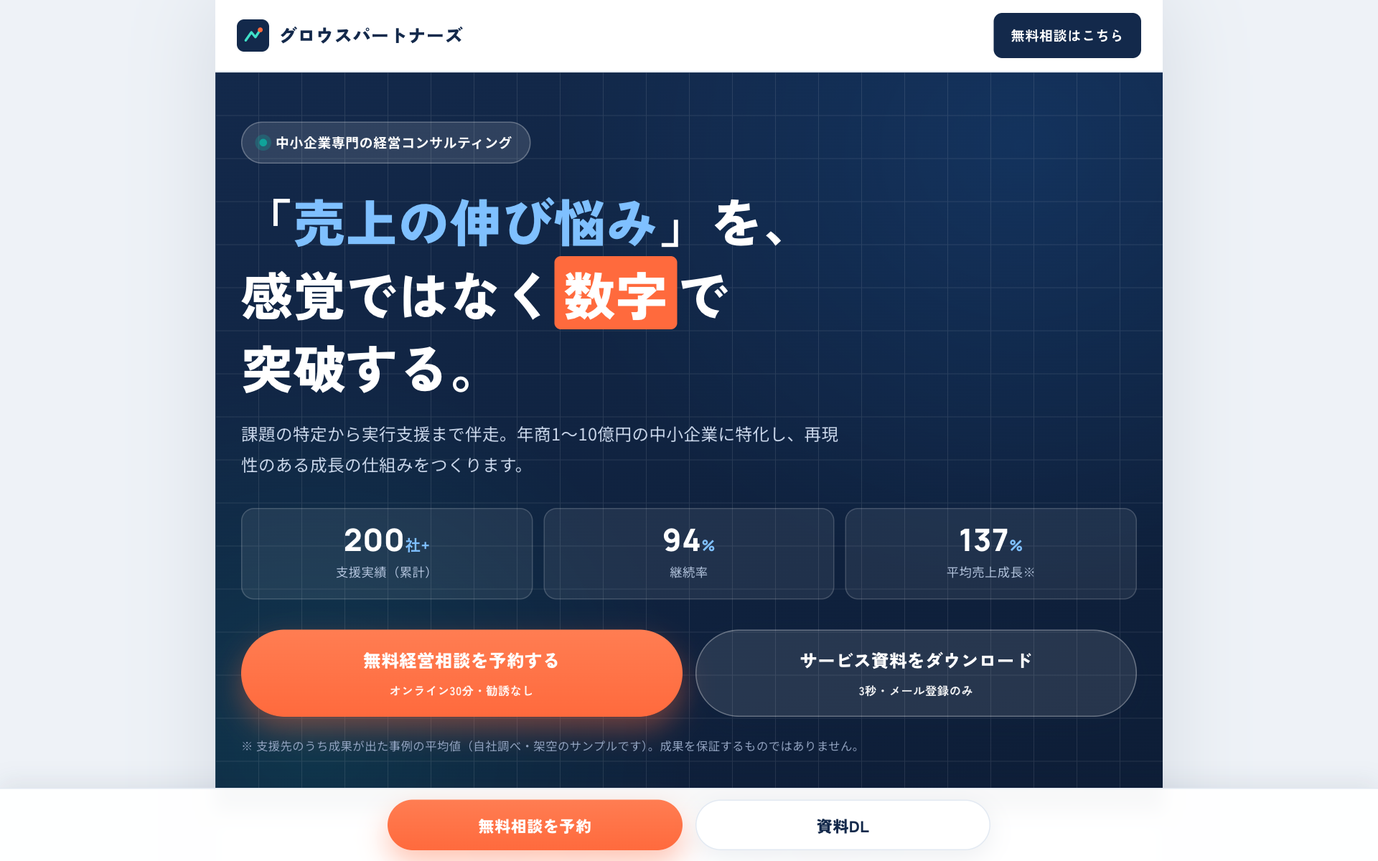
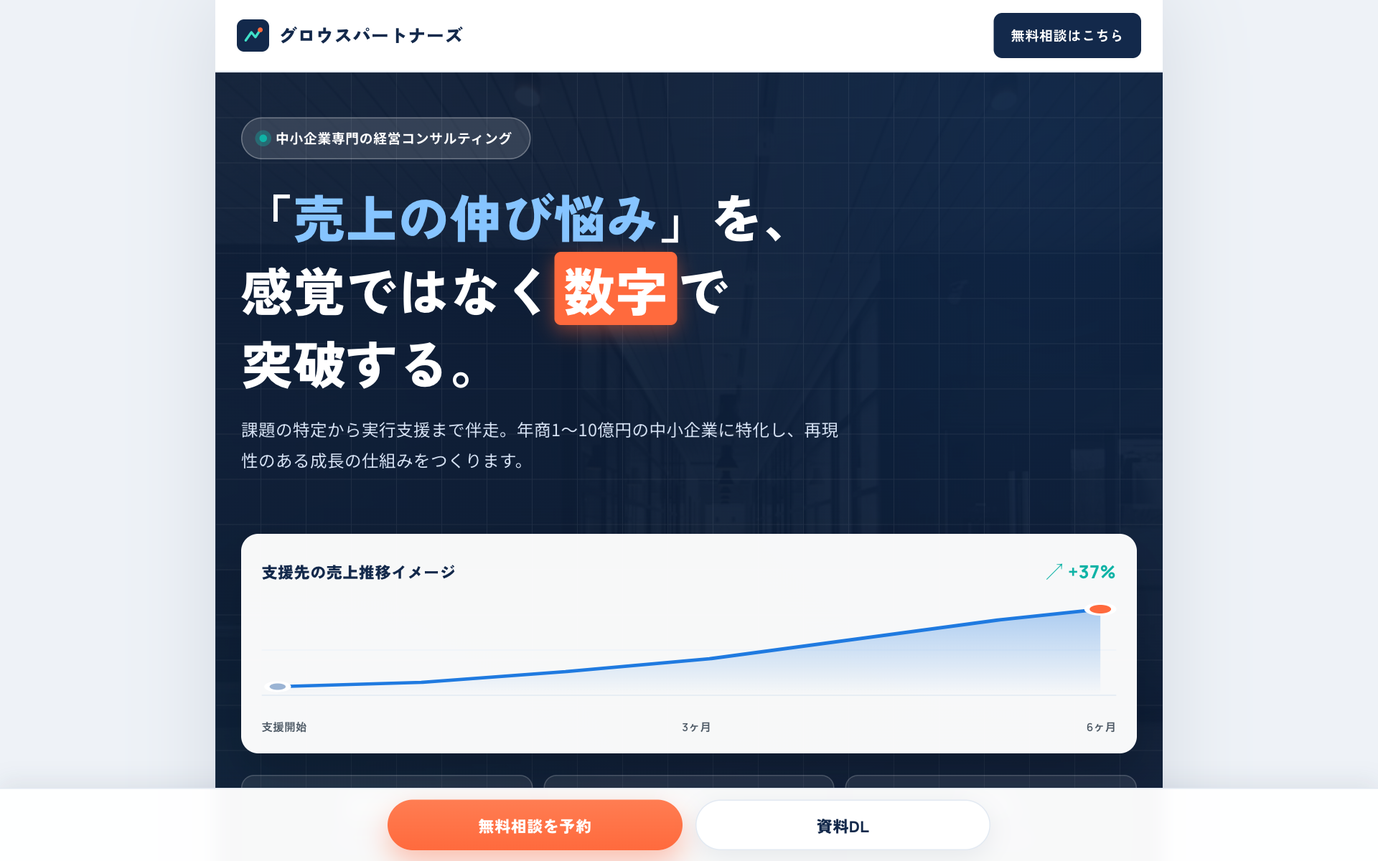
コンサルLP改善: 可読性とビジュアルの面白み強化
ユーザーフィードバック「見にくい/面白みがない」に対応。
- 可読性: 本文/リード文の文字色を濃く・太く、濃紺セクションのカードを
  高コントラスト化(事例カードの背景不透明度・文字色を引き上げ)
- ビジュアル: 写真ゼロの単調さを解消。ヒーローにオフィス背景＋成長グラフ
  カード(右肩上がりSVG)を追加し「数字で突破」を可視化
- 新セクション「Our Approach」=データ分析写真バンド＋現場伴走の訴求で
  ライト/ダークのリズムを作る。最終CTAにもオフィス背景を追加
- トップ用サムネも更新。全画像ロード・横はみ出しゼロ確認

Changed region(s): [[0.1562, 0.5858, 0.8438, 0.8942], [0.1562, 0.1233, 0.5625, 0.4625], [0.1562, 0.4933, 0.625, 0.555]]

diff --git a/consulting-lp/index.html b/consulting-lp/index.html
@@ -8,7 +8,7 @@
 <!--
   ポートフォリオ用サンプルLP / 架空の経営コンサル「株式会社グロウスパートナーズ」（BtoBリード獲得型）
   想定案件: ランサーズ「コンサルティング会社のLP制作（デザイン・キャッチコピー・構成）」を想定
-  トンマナ: 信頼・知的・コーポレート（濃紺＋アクセント）。人物顔写真は最小化しオフィス/抽象＋CSS/SVGで構成。
+  トンマナ: 信頼・知的・コーポレート（濃紺＋アクセント）。人物の顔は写さず、オフィス/データ系のUnsplash写真＋成長グラフ等のSVGで視覚に変化を出す。
   会社名・実績数値・事例・お客様の声はすべて架空のダミー。制作: (実名)
 -->
 <link rel="preconnect" href="https://fonts.googleapis.com">
@@ -16,9 +16,9 @@
 <link href="https://fonts.googleapis.com/css2?family=Noto+Sans+JP:wght@400;500;700;900&family=Zen+Kaku+Gothic+New:wght@500;700;900&family=Manrope:wght@500;600;700;800&display=swap" rel="stylesheet">
 <style>
   :root{
-    --navy:#13294b; --navy-d:#0d1d36; --navy-l:#27406a; --ink:#26313f; --ink-soft:#5e6b7a;
+    --navy:#13294b; --navy-d:#0d1d36; --navy-l:#27406a; --ink:#1f2935; --ink-soft:#4d5965;
     --bg:#ffffff; --mist:#f4f7fb; --mist2:#e9f0f8; --line:#e2e9f2;
-    --accent:#1f7ae0; --accent-d:#1660b8; --teal:#10a39a;
+    --accent:#1f7ae0; --accent-d:#1660b8; --teal:#0fb3a6;
     --cta:#ff6a3d; --cta-d:#ef5526; --gold:#c9a24b;
     --radius:14px; --shadow-sm:0 6px 22px rgba(19,41,75,.08);
     --shadow:0 22px 54px rgba(19,41,75,.16); --maxw:880px;
@@ -27,26 +27,24 @@
   *{box-sizing:border-box; margin:0; padding:0}
   html{scroll-behavior:smooth; -webkit-text-size-adjust:100%}
   body{font-family:"Noto Sans JP",system-ui,sans-serif; color:var(--ink); background:#eef2f7;
-    line-height:1.85; -webkit-font-smoothing:antialiased; letter-spacing:.02em; overflow-x:hidden}
+    line-height:1.85; -webkit-font-smoothing:antialiased; letter-spacing:.02em; overflow-x:hidden; padding-bottom:84px}
   img{max-width:100%; display:block}
   a{color:inherit; text-decoration:none}
   .lp{max-width:var(--maxw); margin:0 auto; background:var(--bg); box-shadow:0 0 80px rgba(19,41,75,.12); overflow:hidden}
   .pad{padding-left:24px; padding-right:24px}
   .center{text-align:center}
-  .accent{color:var(--accent)} .navyc{color:var(--navy)}
+  .accent{color:var(--accent)}
   .reveal{opacity:0; transform:translateY(20px); transition:opacity .7s cubic-bezier(.2,.7,.3,1), transform .7s}
   .reveal.in{opacity:1; transform:none}
   .d1{transition-delay:.08s}.d2{transition-delay:.16s}.d3{transition-delay:.24s}
 
-  /* 見出し体系 */
   .eyebrow{font-family:var(--en); font-weight:700; color:var(--accent); font-size:.8rem; letter-spacing:.18em; text-transform:uppercase; display:block}
   .h2{font-family:var(--sans); font-weight:900; color:var(--navy); font-size:clamp(1.5rem,5.2vw,2.1rem); line-height:1.4; margin-top:6px}
   .h2 .u{background:linear-gradient(transparent 62%,#cfe3fb 62%)}
-  .lead{color:var(--ink-soft); margin-top:12px; font-size:.95rem}
-  .sec{padding:64px 0; position:relative}
+  .lead{color:var(--ink-soft); margin-top:12px; font-size:.96rem; font-weight:500}
+  .sec{padding:60px 0; position:relative}
   .headwrap{text-align:center; max-width:640px; margin:0 auto}
 
-  /* CTAボタン */
   .btn{display:inline-flex; align-items:center; justify-content:center; gap:8px; font-family:var(--sans); font-weight:900;
     border-radius:999px; padding:17px 32px; font-size:1.02rem; transition:.22s; border:none; cursor:pointer; line-height:1.3; text-align:center}
   .btn.cta{background:linear-gradient(180deg,#ff7d52,var(--cta)); color:#fff; box-shadow:0 12px 26px rgba(255,106,61,.4)}
@@ -67,37 +65,49 @@
   @media(max-width:560px){header .hbtn{display:none}}
 
   /* ヒーロー */
-  .hero{position:relative; background:linear-gradient(160deg,var(--navy),var(--navy-d)); color:#fff; overflow:hidden}
-  .hero::before{content:""; position:absolute; inset:0; opacity:.16;
-    background:radial-gradient(50% 60% at 85% 10%,#1f7ae0,transparent),radial-gradient(40% 50% at 10% 90%,#10a39a,transparent)}
-  .hero .grid-bg{position:absolute; inset:0; opacity:.10;
-    background-image:linear-gradient(#fff 1px,transparent 1px),linear-gradient(90deg,#fff 1px,transparent 1px); background-size:40px 40px}
-  .hero .inner{position:relative; z-index:2; padding:46px 24px 52px}
-  .hero .tagline{display:inline-flex; align-items:center; gap:8px; background:rgba(255,255,255,.12); border:1px solid rgba(255,255,255,.25);
+  .hero{position:relative; background:var(--navy-d); color:#fff; overflow:hidden}
+  .hero .bgimg{position:absolute; inset:0; z-index:0}
+  .hero .bgimg img{width:100%; height:100%; object-fit:cover; opacity:.34}
+  .hero::before{content:""; position:absolute; inset:0; z-index:1;
+    background:linear-gradient(165deg,rgba(13,29,54,.78),rgba(13,29,54,.92)),radial-gradient(50% 60% at 88% 8%,rgba(31,122,224,.5),transparent),radial-gradient(45% 50% at 6% 95%,rgba(15,179,166,.4),transparent)}
+  .hero .grid-bg{position:absolute; inset:0; z-index:1; opacity:.07;
+    background-image:linear-gradient(#fff 1px,transparent 1px),linear-gradient(90deg,#fff 1px,transparent 1px); background-size:42px 42px}
+  .hero .inner{position:relative; z-index:2; padding:42px 24px 30px}
+  .hero .tagline{display:inline-flex; align-items:center; gap:8px; background:rgba(255,255,255,.13); border:1px solid rgba(255,255,255,.28);
     border-radius:999px; padding:7px 16px; font-size:.78rem; font-weight:700; letter-spacing:.04em}
-  .hero .tagline .dot{width:7px; height:7px; border-radius:50%; background:var(--teal); box-shadow:0 0 0 4px rgba(16,163,154,.3)}
-  .hero h1{font-family:var(--sans); font-weight:900; font-size:clamp(1.9rem,7.2vw,3rem); line-height:1.42; margin:18px 0 14px; letter-spacing:.01em}
-  .hero h1 .hl{color:#7fc0ff}
-  .hero h1 .box{background:var(--cta); color:#fff; padding:0 .18em; border-radius:6px; display:inline-block}
-  .hero p.sub{font-size:.98rem; color:#c7d4e8; max-width:560px}
-  .hero .kpis{display:flex; gap:10px; margin:26px 0 28px; flex-wrap:wrap}
-  .hero .kpi{flex:1 1 130px; background:rgba(255,255,255,.07); border:1px solid rgba(255,255,255,.16); border-radius:12px; padding:14px 12px; text-align:center}
-  .hero .kpi .n{font-family:var(--en); font-weight:800; font-size:1.8rem; color:#fff; line-height:1}
-  .hero .kpi .n .s{font-size:.9rem; color:#7fc0ff} .hero .kpi .l{font-size:.72rem; color:#aebfd8; margin-top:5px}
-  .hero .note{font-size:.68rem; color:#8fa0bd; margin-top:16px}
+  .hero .tagline .dot{width:7px; height:7px; border-radius:50%; background:var(--teal); box-shadow:0 0 0 4px rgba(15,179,166,.35)}
+  .hero h1{font-family:var(--sans); font-weight:900; font-size:clamp(1.95rem,7.4vw,3rem); line-height:1.42; margin:18px 0 14px; letter-spacing:.01em}
+  .hero h1 .hl{color:#86c4ff}
+  .hero h1 .box{background:var(--cta); color:#fff; padding:0 .18em; border-radius:6px; display:inline-block; box-shadow:0 6px 18px rgba(255,106,61,.45)}
+  .hero p.sub{font-size:.98rem; color:#d4e0f2; max-width:560px}
 
-  /* 信頼バー（ロゴ） */
+  /* ヒーロー成長グラフカード */
+  .growthcard{position:relative; z-index:2; margin:24px 24px -34px; background:rgba(255,255,255,.97); border-radius:16px; padding:18px 18px 14px;
+    box-shadow:0 24px 50px rgba(8,18,34,.5); border:1px solid rgba(255,255,255,.5)}
+  .growthcard .gh{display:flex; align-items:center; justify-content:space-between; margin-bottom:8px}
+  .growthcard .gh .t{font-family:var(--sans); font-weight:900; color:var(--navy); font-size:.92rem}
+  .growthcard .gh .up{font-family:var(--en); font-weight:800; color:var(--teal); font-size:1.05rem}
+  .growthcard svg{width:100%; height:110px; display:block}
+  .growthcard .xlab{display:flex; justify-content:space-between; font-size:.64rem; color:var(--ink-soft); margin-top:2px; font-family:var(--en); font-weight:600}
+
+  .hero .kpis{display:flex; gap:10px; margin:54px 0 24px; flex-wrap:wrap}
+  .hero .kpi{flex:1 1 130px; background:rgba(255,255,255,.08); border:1px solid rgba(255,255,255,.18); border-radius:12px; padding:14px 12px; text-align:center}
+  .hero .kpi .n{font-family:var(--en); font-weight:800; font-size:1.8rem; color:#fff; line-height:1}
+  .hero .kpi .n .s{font-size:.9rem; color:#86c4ff} .hero .kpi .l{font-size:.72rem; color:#b9c8de; margin-top:5px}
+  .hero .note{font-size:.68rem; color:#8fa0bd; margin-top:14px}
+
+  /* 信頼バー */
   .trust{background:var(--mist); border-bottom:1px solid var(--line); padding:22px 0}
   .trust p{text-align:center; font-size:.74rem; color:var(--ink-soft); letter-spacing:.06em; margin-bottom:14px}
   .logos{display:flex; flex-wrap:wrap; justify-content:center; gap:10px 14px; padding:0 16px}
   .logos .lg{height:34px; padding:0 16px; display:flex; align-items:center; justify-content:center; background:#fff; border:1px solid var(--line);
-    border-radius:8px; font-family:var(--en); font-weight:700; color:#9aa8ba; font-size:.82rem; letter-spacing:.04em}
+    border-radius:8px; font-family:var(--en); font-weight:700; color:#8694a8; font-size:.82rem; letter-spacing:.04em}
 
   /* 共感 */
   .worry{background:#fff}
   .worry .cards{display:grid; grid-template-columns:1fr 1fr; gap:14px; margin-top:30px}
   .wcard{background:var(--mist); border:1px solid var(--line); border-radius:14px; padding:20px 18px; position:relative}
-  .wcard .q{font-family:var(--en); font-weight:800; color:#c5d2e3; font-size:1.4rem; line-height:1}
+  .wcard .q{font-family:var(--en); font-weight:800; color:#b3c4da; font-size:1.4rem; line-height:1}
   .wcard p{font-size:.92rem; font-weight:700; color:var(--navy); margin-top:8px}
   .worry .bridge{text-align:center; margin-top:30px; font-family:var(--sans); font-weight:900; color:var(--navy); font-size:clamp(1.15rem,4.6vw,1.5rem); line-height:1.6}
   .worry .bridge .accent{color:var(--accent)}
@@ -106,39 +116,55 @@
   .svc{background:var(--mist)}
   .svc .grid{display:grid; gap:16px; margin-top:32px}
   .scard{background:#fff; border:1px solid var(--line); border-radius:16px; padding:24px 22px; box-shadow:var(--shadow-sm); display:flex; gap:18px; align-items:flex-start}
-  .scard .ic{width:52px; height:52px; flex:none; border-radius:12px; background:linear-gradient(160deg,var(--accent),var(--accent-d)); display:grid; place-items:center}
-  .scard .ic svg{width:28px; height:28px; stroke:#fff; fill:none; stroke-width:1.8}
+  .scard .ic{width:52px; height:52px; flex:none; border-radius:12px; background:linear-gradient(160deg,var(--accent),var(--accent-d)); display:grid; place-items:center; box-shadow:0 8px 18px rgba(31,122,224,.35)}
+  .scard .ic svg{width:28px; height:28px; stroke:#fff; fill:none; stroke-width:1.9}
   .scard .no{font-family:var(--en); font-weight:700; color:var(--accent); font-size:.78rem; letter-spacing:.1em}
   .scard h3{font-family:var(--sans); font-weight:900; color:var(--navy); font-size:1.15rem; margin:2px 0 7px}
-  .scard p{font-size:.9rem; color:var(--ink-soft)}
+  .scard p{font-size:.9rem; color:var(--ink-soft); font-weight:500}
+
+  /* アプローチ（写真バンド） */
+  .approach{position:relative; color:#fff; overflow:hidden}
+  .approach .bgimg{position:absolute; inset:0; z-index:0}
+  .approach .bgimg img{width:100%; height:100%; object-fit:cover}
+  .approach::after{content:""; position:absolute; inset:0; z-index:1; background:linear-gradient(120deg,rgba(13,29,54,.94),rgba(19,41,75,.82))}
+  .approach .inner{position:relative; z-index:2; padding:56px 24px}
+  .approach .eyebrow{color:#86c4ff}
+  .approach h2{font-family:var(--sans); font-weight:900; font-size:clamp(1.4rem,5vw,1.9rem); line-height:1.5; margin:6px 0 14px}
+  .approach h2 .hl{color:#3fe0c8}
+  .approach p{color:#cdd9ec; font-size:.95rem; max-width:560px}
+  .approach .pts{display:grid; gap:10px; margin-top:22px}
+  .approach .pt{display:flex; gap:12px; align-items:flex-start; background:rgba(255,255,255,.07); border:1px solid rgba(255,255,255,.16); border-radius:12px; padding:14px 16px}
+  .approach .pt .ck{flex:none; width:24px; height:24px; border-radius:50%; background:var(--teal); display:grid; place-items:center; margin-top:1px}
+  .approach .pt .ck svg{width:13px; height:13px; stroke:#fff; stroke-width:2.6; fill:none}
+  .approach .pt b{display:block; font-size:.95rem; color:#fff} .approach .pt span{font-size:.82rem; color:#bccadf}
 
   /* 選ばれる理由 */
   .why .item{display:flex; gap:18px; align-items:flex-start; padding:22px 0; border-bottom:1px dashed var(--line)}
   .why .item:last-child{border-bottom:none}
-  .why .num{font-family:var(--en); font-weight:800; font-size:2rem; color:#cfe0f4; flex:none; line-height:1; width:58px}
+  .why .num{font-family:var(--en); font-weight:800; font-size:2rem; color:var(--accent); opacity:.45; flex:none; line-height:1; width:58px}
   .why h3{font-family:var(--sans); font-weight:900; color:var(--navy); font-size:1.12rem; margin-bottom:6px}
-  .why p{font-size:.9rem; color:var(--ink-soft)}
+  .why p{font-size:.9rem; color:var(--ink-soft); font-weight:500}
 
   /* 実績/事例 Before-After */
   .case{background:var(--navy); color:#fff}
-  .case .h2{color:#fff} .case .eyebrow{color:#7fc0ff}
+  .case .h2{color:#fff} .case .eyebrow{color:#86c4ff}
   .case .grid{display:grid; gap:16px; margin-top:32px}
-  .ccard{background:rgba(255,255,255,.05); border:1px solid rgba(255,255,255,.14); border-radius:16px; padding:22px}
-  .ccard .tag{display:inline-block; background:rgba(127,192,255,.16); color:#9fccff; font-size:.72rem; font-weight:700; padding:4px 12px; border-radius:999px}
-  .ccard h3{font-family:var(--sans); font-weight:700; font-size:1rem; margin:12px 0 16px; color:#eaf1fb}
+  .ccard{background:rgba(255,255,255,.09); border:1px solid rgba(255,255,255,.2); border-radius:16px; padding:22px}
+  .ccard .tag{display:inline-block; background:rgba(134,196,255,.2); color:#aed5ff; font-size:.72rem; font-weight:700; padding:4px 12px; border-radius:999px}
+  .ccard h3{font-family:var(--sans); font-weight:700; font-size:1.02rem; margin:12px 0 16px; color:#fff}
   .ba{display:flex; align-items:center; gap:14px}
-  .ba .b{flex:1; text-align:center; background:rgba(255,255,255,.06); border-radius:12px; padding:14px 8px}
-  .ba .b .l{font-size:.7rem; color:#9fb2cf} .ba .b .v{font-family:var(--en); font-weight:800; font-size:1.5rem; margin-top:3px}
-  .ba .b.before .v{color:#aebfd8} .ba .b.after{background:rgba(16,163,154,.16); border:1px solid rgba(16,163,154,.4)} .ba .b.after .v{color:#3fe0c8}
+  .ba .b{flex:1; text-align:center; background:rgba(255,255,255,.08); border-radius:12px; padding:14px 8px}
+  .ba .b .l{font-size:.7rem; color:#bccadf} .ba .b .v{font-family:var(--en); font-weight:800; font-size:1.55rem; margin-top:3px}
+  .ba .b.before .v{color:#c4d2e6} .ba .b.after{background:rgba(15,179,166,.22); border:1px solid rgba(15,179,166,.55)} .ba .b.after .v{color:#52ead4}
   .ba .ar{color:var(--cta); font-family:var(--en); font-weight:800; font-size:1.2rem; flex:none}
-  .case .disc{font-size:.68rem; color:#8fa0bd; margin-top:20px; text-align:center}
+  .case .disc{font-size:.68rem; color:#93a3bf; margin-top:20px; text-align:center}
 
   /* コンサルタント */
   .person{background:#fff}
   .person .card{display:flex; gap:20px; align-items:center; background:var(--mist); border:1px solid var(--line); border-radius:18px; padding:24px; margin-top:24px}
-  .person .ph{width:96px; height:96px; flex:none; border-radius:50%; background:linear-gradient(160deg,var(--navy-l),var(--navy)); display:grid; place-items:center; color:#fff; font-family:var(--en); font-weight:800; font-size:1.6rem; box-shadow:var(--shadow-sm)}
+  .person .ph{width:96px; height:96px; flex:none; border-radius:50%; background:linear-gradient(160deg,var(--accent),var(--navy)); display:grid; place-items:center; color:#fff; font-family:var(--en); font-weight:800; font-size:1.6rem; box-shadow:var(--shadow-sm)}
   .person .role{font-size:.78rem; color:var(--accent); font-weight:700} .person h3{font-family:var(--sans); font-weight:900; color:var(--navy); font-size:1.2rem; margin:2px 0 8px}
-  .person p{font-size:.88rem; color:var(--ink-soft)}
+  .person p{font-size:.88rem; color:var(--ink-soft); font-weight:500}
   .person .quals{display:flex; gap:8px; flex-wrap:wrap; margin-top:24px}
   .person .ql{background:#fff; border:1px solid var(--line); border-radius:8px; padding:8px 14px; font-size:.8rem; font-weight:700; color:var(--navy)}
   .person .ql::before{content:"✓ "; color:var(--teal)}
@@ -148,7 +174,7 @@
   .voice .grid{display:grid; gap:14px; margin-top:30px}
   .vcard{background:#fff; border:1px solid var(--line); border-radius:14px; padding:22px; box-shadow:var(--shadow-sm); position:relative}
   .vcard .stars{color:#f0a93e; font-size:.9rem; letter-spacing:1px}
-  .vcard p{font-size:.92rem; margin:10px 0 14px}
+  .vcard p{font-size:.92rem; margin:10px 0 14px; color:var(--ink)}
   .vcard .hl{background:linear-gradient(transparent 60%,#cfe3fb 60%); font-weight:700}
   .vcard .who{display:flex; align-items:center; gap:10px; font-size:.8rem; color:var(--ink-soft)}
   .vcard .who .av{width:38px; height:38px; border-radius:50%; flex:none; background:var(--navy-l); color:#fff; display:grid; place-items:center; font-family:var(--en); font-weight:700; font-size:.85rem}
@@ -161,7 +187,7 @@
   .fstep:not(:last-child)::before{content:""; position:absolute; left:21px; top:44px; bottom:0; width:2px; background:var(--line)}
   .fstep .n{width:44px; height:44px; flex:none; border-radius:50%; background:var(--navy); color:#fff; display:grid; place-items:center; font-family:var(--en); font-weight:800; z-index:1}
   .fstep h4{font-family:var(--sans); font-weight:900; color:var(--navy); font-size:1.05rem; margin-bottom:4px}
-  .fstep p{font-size:.88rem; color:var(--ink-soft)}
+  .fstep p{font-size:.88rem; color:var(--ink-soft); font-weight:500}
 
   /* FAQ */
   .faq{background:var(--mist)}
@@ -174,25 +200,26 @@
   .qa .ab p{padding:0 20px 18px; font-size:.88rem; color:var(--ink-soft)}
 
   /* 最終CTA */
-  .final{background:linear-gradient(160deg,var(--navy),var(--navy-d)); color:#fff; text-align:center; position:relative; overflow:hidden}
-  .final::before{content:""; position:absolute; inset:0; opacity:.18; background:radial-gradient(50% 70% at 50% 0,#1f7ae0,transparent)}
-  .final .inner{position:relative; z-index:1}
-  .final .h2{color:#fff} .final .eyebrow{color:#7fc0ff}
-  .final p{color:#c7d4e8; margin:12px 0 26px}
-  .final .cta-row .btn.ghost{background:rgba(255,255,255,.1); color:#fff; border-color:rgba(255,255,255,.3)}
-  .final .tel{margin-top:22px; font-size:.85rem; color:#aebfd8}
+  .final{position:relative; color:#fff; text-align:center; overflow:hidden}
+  .final .bgimg{position:absolute; inset:0; z-index:0}
+  .final .bgimg img{width:100%; height:100%; object-fit:cover; opacity:.3}
+  .final::before{content:""; position:absolute; inset:0; z-index:1; background:linear-gradient(160deg,rgba(13,29,54,.9),rgba(19,41,75,.92)),radial-gradient(50% 70% at 50% 0,rgba(31,122,224,.4),transparent)}
+  .final .inner{position:relative; z-index:2; padding:62px 24px}
+  .final .h2{color:#fff} .final .eyebrow{color:#86c4ff}
+  .final p{color:#d4e0f2; margin:12px 0 26px}
+  .final .cta-row .btn.ghost{background:rgba(255,255,255,.12); color:#fff; border-color:rgba(255,255,255,.35)}
+  .final .tel{margin-top:22px; font-size:.85rem; color:#b9c8de}
   .final .tel b{font-family:var(--en); font-size:1.5rem; color:#fff; display:block}
 
-  footer{background:var(--navy-d); color:#8b9bb5; font-size:.78rem; padding:34px 0; text-align:center}
+  footer{background:var(--navy-d); color:#93a2bc; font-size:.78rem; padding:34px 0; text-align:center}
   footer .logo{color:#fff; justify-content:center; margin-bottom:10px}
-  .disclaimer{font-size:.68rem; color:#6b7a96; margin-top:14px; line-height:1.7; text-align:left}
+  .disclaimer{font-size:.68rem; color:#73849f; margin-top:14px; line-height:1.7; text-align:left}
 
   .sticky{position:fixed; bottom:0; left:0; right:0; z-index:60; background:rgba(255,255,255,.97); border-top:1px solid var(--line); padding:10px 14px; backdrop-filter:blur(8px); box-shadow:0 -6px 20px rgba(19,41,75,.08)}
   .sticky .cta-row{max-width:560px; margin:0 auto}
   .sticky .btn{padding:13px 18px; font-size:.92rem}
   @media(prefers-reduced-motion:reduce){.reveal{transition:none;opacity:1;transform:none}}
   @media(max-width:520px){.worry .cards{grid-template-columns:1fr} .hero .kpi .n{font-size:1.55rem}}
-  body{padding-bottom:84px}
 </style>
 </head>
 <body>
@@ -208,11 +235,30 @@
 
   <!-- ヒーロー -->
   <section class="hero">
+    <div class="bgimg"><img src="https://images.unsplash.com/photo-1497366216548-37526070297c?auto=format&fit=crop&w=1000&q=70" alt=""></div>
     <div class="grid-bg"></div>
     <div class="inner pad">
       <span class="tagline"><span class="dot"></span>中小企業専門の経営コンサルティング</span>
       <h1>「<span class="hl">売上の伸び悩み</span>」を、<br>感覚ではなく<span class="box">数字</span>で<br>突破する。</h1>
       <p class="sub">課題の特定から実行支援まで伴走。年商1〜10億円の中小企業に特化し、再現性のある成長の仕組みをつくります。</p>
+    </div>
+    <!-- 成長グラフカード -->
+    <div class="growthcard">
+      <div class="gh"><span class="t">支援先の売上推移イメージ</span><span class="up">↗ +37%</span></div>
+      <svg viewBox="0 0 320 110" preserveAspectRatio="none">
+        <defs>
+          <linearGradient id="area" x1="0" y1="0" x2="0" y2="1"><stop offset="0" stop-color="#1f7ae0" stop-opacity=".35"/><stop offset="1" stop-color="#1f7ae0" stop-opacity="0"/></linearGradient>
+        </defs>
+        <line x1="0" y1="92" x2="320" y2="92" stroke="#e2e9f2" stroke-width="1"/>
+        <line x1="0" y1="50" x2="320" y2="50" stroke="#eef3f9" stroke-width="1"/>
+        <path d="M6,84 L60,80 L114,70 L168,58 L222,40 L276,22 L314,12 L314,92 L6,92 Z" fill="url(#area)"/>
+        <path d="M6,84 L60,80 L114,70 L168,58 L222,40 L276,22 L314,12" fill="none" stroke="#1f7ae0" stroke-width="3" stroke-linecap="round" stroke-linejoin="round"/>
+        <circle cx="314" cy="12" r="5" fill="#ff6a3d" stroke="#fff" stroke-width="2"/>
+        <circle cx="6" cy="84" r="4" fill="#9bb4d4" stroke="#fff" stroke-width="2"/>
+      </svg>
+      <div class="xlab"><span>支援開始</span><span>3ヶ月</span><span>6ヶ月</span></div>
+    </div>
+    <div class="inner pad" style="padding-top:0">
       <div class="kpis">
         <div class="kpi"><div class="n">200<span class="s">社+</span></div><div class="l">支援実績（累計）</div></div>
         <div class="kpi"><div class="n">94<span class="s">%</span></div><div class="l">継続率</div></div>
@@ -269,6 +315,21 @@
       <div class="scard reveal d2">
         <div class="ic"><svg viewBox="0 0 24 24"><path d="M20 6L9 17l-5-5"/></svg></div>
         <div><div class="no">SERVICE 03</div><h3>実行の伴走支援</h3><p>週次でKPIを追い、現場に入って施策を回します。提案書で終わらせず、成果が出るまで並走します。</p></div>
+      </div>
+    </div>
+  </section>
+
+  <!-- アプローチ（写真バンド） -->
+  <section class="approach">
+    <div class="bgimg"><img src="https://images.unsplash.com/photo-1454165804606-c3d57bc86b40?auto=format&fit=crop&w=1000&q=70" alt="データを分析する様子"></div>
+    <div class="inner pad">
+      <span class="eyebrow">Our Approach</span>
+      <h2>提案書を置いて帰る、<br>コンサルではありません。<br><span class="hl">現場に入り、数字を追う。</span></h2>
+      <p>戦略を描くだけなら、誰でもできます。私たちは現場の会議に入り、施策を一緒に回し、週次でKPIを追いかけます。</p>
+      <div class="pts">
+        <div class="pt"><span class="ck"><svg viewBox="0 0 24 24"><path d="M20 6L9 17l-5-5"/></svg></span><div><b>毎週、数字を一緒に振り返る</b><span>KPIをダッシュボードで可視化し、打ち手を即修正</span></div></div>
+        <div class="pt"><span class="ck"><svg viewBox="0 0 24 24"><path d="M20 6L9 17l-5-5"/></svg></span><div><b>“やらないこと”を決める</b><span>限られた人員・予算で成果を出すため、施策を絞る</span></div></div>
+        <div class="pt"><span class="ck"><svg viewBox="0 0 24 24"><path d="M20 6L9 17l-5-5"/></svg></span><div><b>仕組みとして残す</b><span>担当者が変わっても回る、再現性のある形に</span></div></div>
       </div>
     </div>
   </section>
@@ -388,8 +449,9 @@
   </section>
 
   <!-- 最終CTA -->
-  <section class="sec final pad" id="contact">
-    <div class="inner">
+  <section class="final" id="contact">
+    <div class="bgimg"><img src="https://images.unsplash.com/photo-1486406146926-c627a92ad1ab?auto=format&fit=crop&w=1000&q=70" alt=""></div>
+    <div class="inner pad">
       <span class="eyebrow">Contact</span>
       <h2 class="h2 reveal">まずは30分、<br>課題を整理しませんか？</h2>
       <p>無料経営相談はオンライン30分・勧誘なし。<br>「何から手をつけるべきか」を一緒に言語化します。</p>
@@ -404,7 +466,7 @@
   <footer><div class="pad">
     <div class="logo"><svg class="mark" viewBox="0 0 40 40" style="width:26px;height:26px"><rect width="40" height="40" rx="9" fill="#1f7ae0"/><path d="M11 26 L18 16 L23 22 L29 13" stroke="#fff" stroke-width="3" fill="none" stroke-linecap="round" stroke-linejoin="round"/></svg> 株式会社グロウスパートナーズ</div>
     <p>中小企業専門の経営コンサルティング</p>
-    <p class="disclaimer">※本ページはポートフォリオ用の架空サンプルです。「株式会社グロウスパートナーズ」は実在しない架空の会社で、社名・ロゴ・実績数値・事例・お客様の声・電話番号はすべてダミーです。記載の成果は成果を保証するものではなく、個人差・市況により変動します。実在の企業・人物とは一切関係ありません。</p>
+    <p class="disclaimer">※本ページはポートフォリオ用の架空サンプルです。「株式会社グロウスパートナーズ」は実在しない架空の会社で、社名・ロゴ・実績数値・事例・お客様の声・電話番号はすべてダミーです。記載の成果は成果を保証するものではなく、個人差・市況により変動します。掲載写真はUnsplashのフリー素材です。実在の企業・人物とは一切関係ありません。</p>
   </div></footer>
 
 </div>
